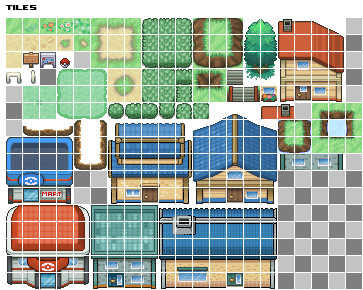
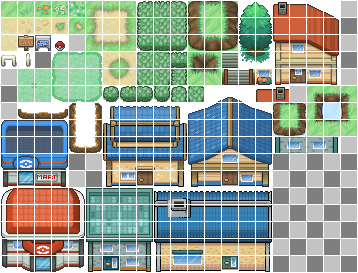
mapa que no funciona

diff --git a/src/resource.js b/src/resource.js
@@ -5,7 +5,9 @@ var res = {
     tiles16_png: "res/mapas/tiles16.png",
     mapa1_tmx: "res/mapas/mapa1.tmx",
     jugador_plist: "res/jugador/jugador.plist",
-    eevee_plist: "res/pokemon/eevee.plist"
+    eevee_plist: "res/pokemon/eevee.plist",
+    tiles_mapa: "res/mapas/mapa2.png",
+    mapa_tmx: "res/mapas/mapa2.tmx"
 };
 
 var g_resources = [];

diff --git a/src/GameScene.js b/src/GameScene.js
@@ -79,7 +79,7 @@ var GameLayer = cc.Layer.extend({
         console.log("ENEMIGO -> "+enemigo);
     },
     cargarMapa:function () {
-       this.mapa = new cc.TMXTiledMap(res.mapa1_tmx);
+       this.mapa = new cc.TMXTiledMap(res.mapa_tmx);
        // Añadirlo a la Layer
        this.addChild(this.mapa);
        // Ancho del mapa
